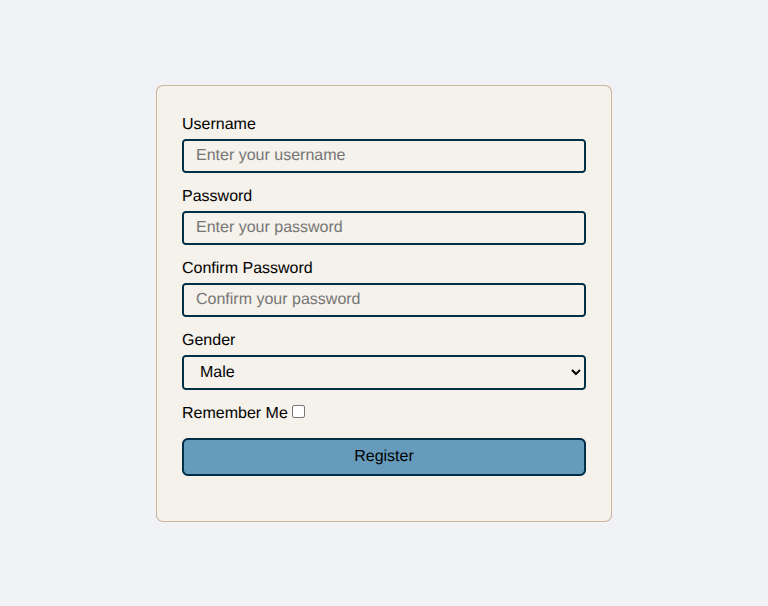
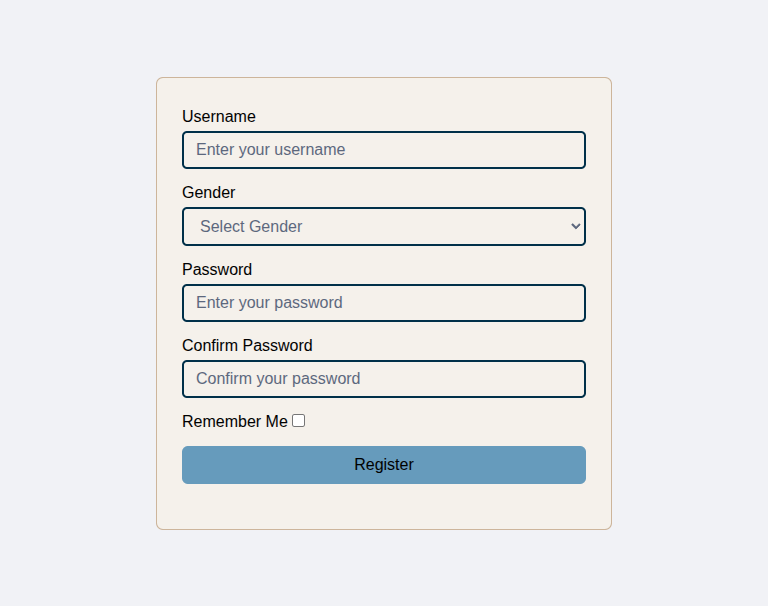
update README, register-form

Changed region(s): [[0.2188, 0.1782, 0.7812, 0.802], [0.1875, 0.1188, 0.8125, 0.1485]]

diff --git a/html/register-form.html b/html/register-form.html
@@ -33,14 +33,19 @@
                 margin-bottom: 5px;
             }
 
+            input::placeholder,
+            select:invalid {
+                color: #5c677d;
+            }
+
             input[type="text"],
             input[type="password"],
             select {
                 width: 100%;
-                border-radius: 4px;
+                border-radius: 5px;
                 border: 2px solid #003049;
                 background-color: transparent;
-                padding: 6px 12px;
+                padding: 8px 12px;
                 box-sizing: border-box;
                 font-size: 16px;
             }
@@ -60,8 +65,9 @@
 
             button {
                 width: 100%;
-                border: 2px solid #003049;
-                padding: 8px 15px;
+                outline: none;
+                border: none;
+                padding: 10px 15px;
                 font-size: 14px;
                 border-radius: 6px;
                 background-color: #669bbc;
@@ -86,7 +92,16 @@
                         name="username"
                         id="username"
                         placeholder="Enter your username"
+                        required
                     />
+                </div>
+                <div>
+                    <label for="gender">Gender</label>
+                    <select name="gender" required>
+                        <option disabled selected value>Select Gender</option>
+                        <option value="male">Male</option>
+                        <option value="female">Female</option>
+                    </select>
                 </div>
                 <div>
                     <label for="password">Password</label>
@@ -95,6 +110,7 @@
                         name="password"
                         placeholder="Enter your password"
                         id="password"
+                        required
                     />
                 </div>
                 <div>
@@ -104,14 +120,8 @@
                         name="confirm-password"
                         placeholder="Confirm your password"
                         id="confirm-password"
+                        required
                     />
-                </div>
-                <div>
-                    <label for="gender">Gender</label>
-                    <select name="gender">
-                        <option value="male">Male</option>
-                        <option value="female">Female</option>
-                    </select>
                 </div>
                 <div>
                     <label for="remember" style="display: inline">

diff --git a/README.md b/README.md
@@ -1,17 +1,17 @@
 # Web Tech Class Tasks 
 
-- [Task 1: Colored Boxes](./colored-boxes.html)
+- [Task 1: Colored Boxes](./html/colored-boxes.html)
 ![Colored Boxes](screenshots/colored-boxes.png)
 _Screenshot of the colored boxes task._ 
 
-- [Task 2: Horizontal Navbar](./horizontal-navbar.html)
+- [Task 2: Horizontal Navbar](./html/horizontal-navbar.html)
 ![Horizontal Navbar](screenshots/horizontal-navbar.png)
 _Screenshot of the horizontal navbar task._
 
-- [Task 3: HTML Tables](./html-tables.html)
+- [Task 3: HTML Tables](./html/html-tables.html)
 ![HTML Table](screenshots/html-table.png)
 _Screenshot of the html table task._
 
-- [Task 4: Register Form](./register-form.html)
+- [Task 4: Register Form](./html/register-form.html)
 ![Register Form](screenshots/register-form.png)
 _Screenshot of the register form task._
